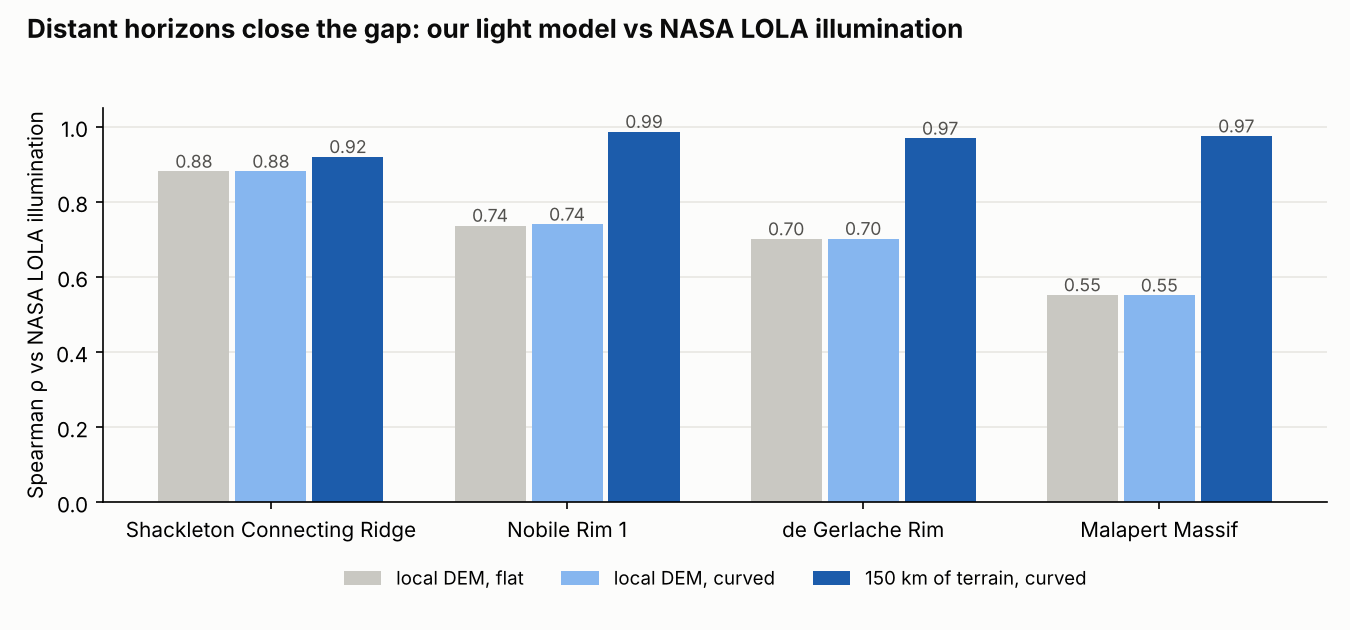
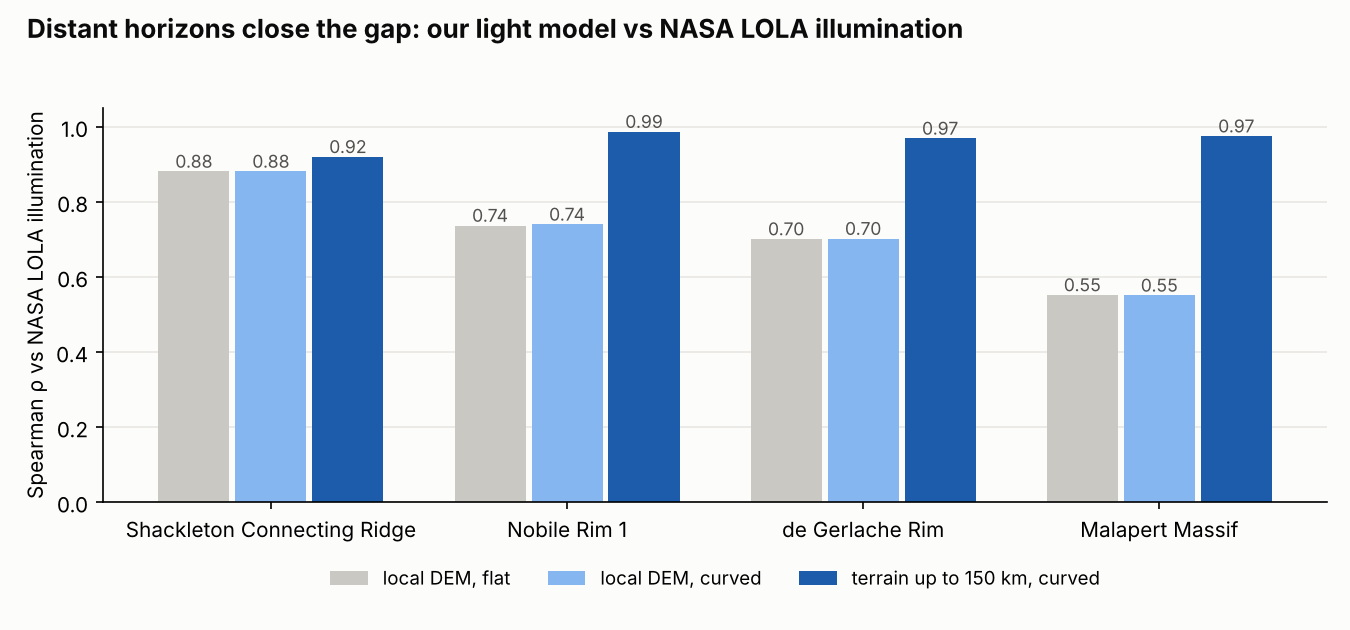
Regenerate far-horizon and Diviner outputs after the Moon & Mars review; mark it done

Changed region(s): [[0.2178, 0.9048, 0.8089, 0.9349]]

diff --git a/README.md b/README.md
@@ -77,6 +77,7 @@ the official 5 m LOLA DEMs of four Moon Base sites, three of them inside NASA's 
 | LRO Diviner temperature and ice context for the Moon sites | `scripts/diviner_context.py`, fig6 | D. Lizárraga |
 | Analog in time (hours/day of 0–7° Sun per month) | `pen/sun.py`, fig3 | Victor |
 | Dark app with 3D globe / flat map, analog card with low-Sun previews, validation tab, CSV download | `app/` | Paul · Aaron |
+| Far-horizon method and Diviner numbers reviewed against the NASA labels (PDS3 LDEM, AVGVISIB scale, PDS4 Diviner); `ray_reach` and the AVGVISIB scale guard added | `scripts/validate_far_horizons.py`, `scripts/diviner_context.py` | D. Lizárraga |
 | Real NASA imagery for every analog card (Moon/Mars Trek WMTS, GIBS), aligned with the previews | `scripts/real_imagery.py` | Aaron · Paul |
 | Live field-safety check from NASA EONET, with an offline snapshot | `pen/eonet.py`, `scripts/eonet_snapshot.py` | Aaron |
 | Tests (17) and CI with an offline app smoke test | `tests/`, `.github/` | Aaron |
@@ -88,7 +89,7 @@ the official 5 m LOLA DEMs of four Moon Base sites, three of them inside NASA's 
 | Public deploy on Streamlit Community Cloud; check that EONET answers live there | The judges need a link that opens without installing anything | Aaron |
 | Deck (7 slides) and project page around the blind-rediscovery result | It's the demo the judges see | Angel |
 | Visual identity (wordmark), UI polish, phone check, visuals for the deck | First impression | Paul |
-| Review the far-horizon method and the new lunar sites; Moon/Mars paragraph for the page | A second pair of eyes on the strongest claim | D. Lizárraga |
+| Moon/Mars data paragraph for the project page | Angel needs it for the submission | D. Lizárraga |
 | Earth surface temperature (MODIS/ECOSTRESS) so thermal becomes a **scored** dimension | Today Diviner is context only | D. Dona → Victor |
 | Fact-check every number in README, deck and page; tag `v1.0` | No wrong number in front of judges | Angel · Victor |
 

diff --git a/docs/TEAM.md b/docs/TEAM.md
@@ -48,7 +48,7 @@ Checkpoint = 10-minute stand-up: what's done, what's blocked, and what's next.
 - ✅ Diviner polar resource product: filtered to lat ≤ −84° (811,652 facets) and summarised per lunar site (fig6).
 - ✅ Far-horizon test (LOLA 85°S 40 m DEM, 150 km, curvature): ρ 0.92–0.99 vs NASA at all four Moon sites (fig7).
 - ✅ Lunar references Site06 (Nobile Rim 1, Artemis candidate region) and Site11 (de Gerlache Rim) added.
-- **B1** **Review** `scripts/validate_far_horizons.py` (Sun geometry, azimuth convention, AVGVISIB scale 4e-5) and the Diviner numbers (units, `ice_depth` = −999 meaning) against the PDS labels. This is our strongest claim, so it needs a second pair of eyes.
+- ✅ **B1** Review of `scripts/validate_far_horizons.py` and the Diviner numbers against the PDS labels (PR #1): method confirmed, `ray_reach` and the AVGVISIB scale guard added, `temp_avg` = 2 cm below the surface, mean error stated as 2.0–3.2 pp, DEM-edge caveat in the README.
 - **B3 (stretch)** One Mars reference with buried ice (Deuteronilus Mensae CTX DTM from the USGS STAC).
 - **B4** Write the Moon/Mars data paragraph for Angel's project page (NASA products used, exact names).
 
